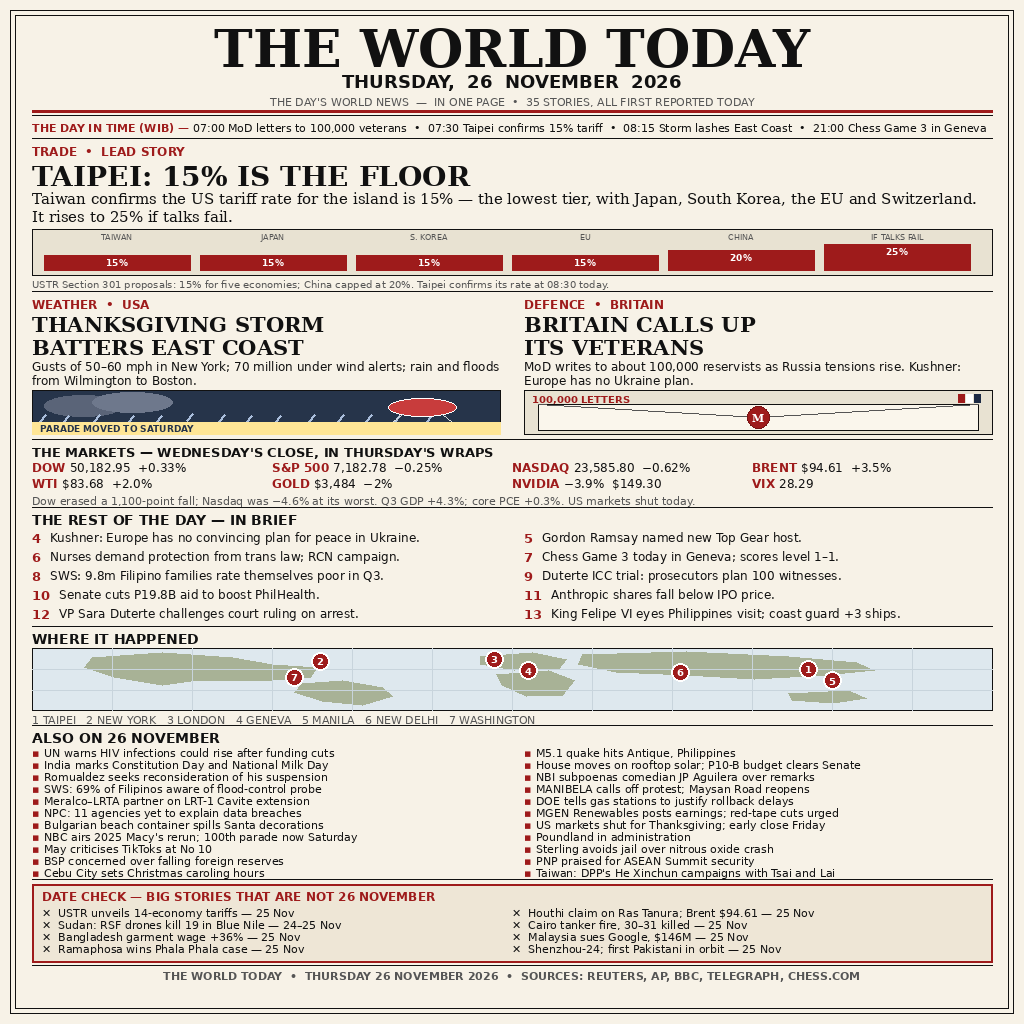
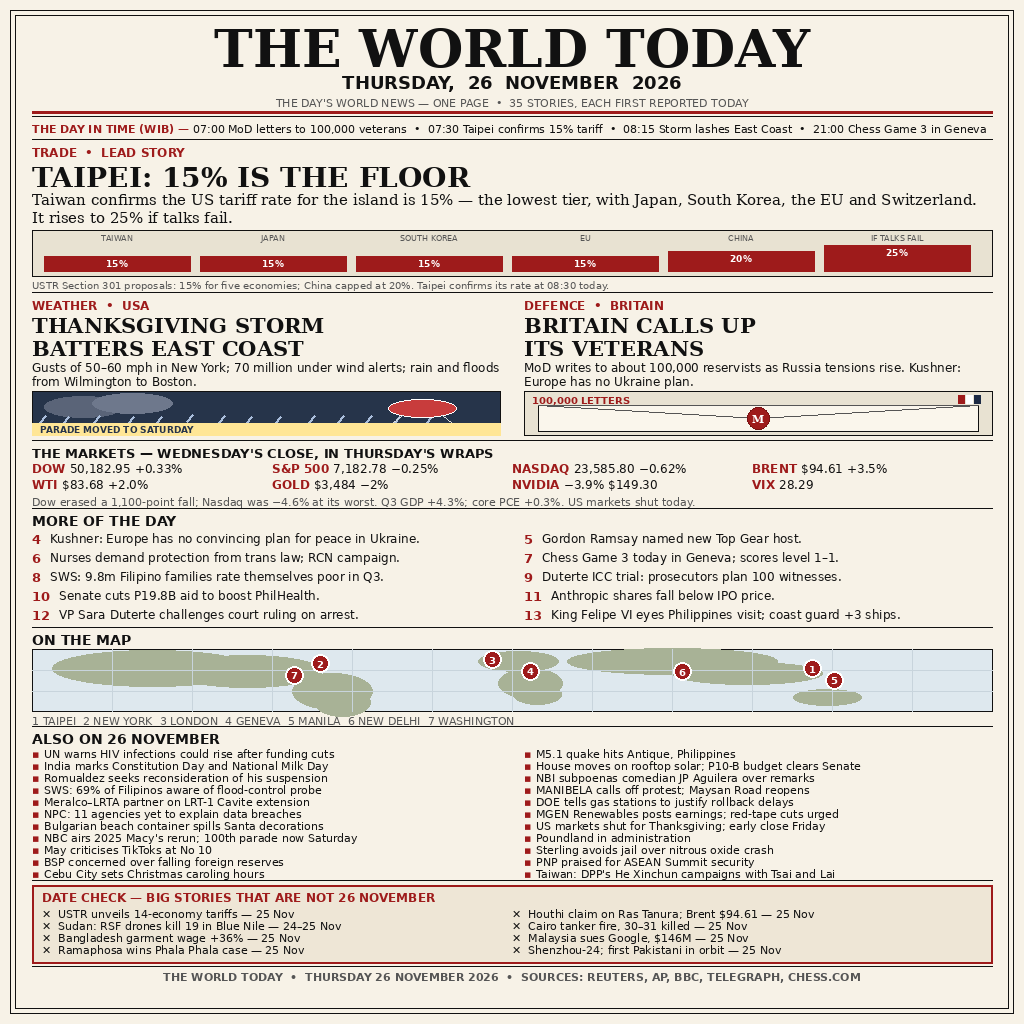
Update main.ts, entry.png and README.md

Changed region(s): [[0.0312, 0.0312, 0.9688, 0.9688], [0.6875, 0.1875, 0.9375, 0.3125], [0.3125, 0.3438, 0.375, 0.375]]

diff --git a/main.ts b/main.ts
@@ -1,19 +1,17 @@
 // The World Today — 26 November 2026.
-// Copies the pre-rendered front page into the grader's output directory.
-// The image is rendered by tools/make-image.py (deterministic PIL, fixed
-// seed); this entrypoint only copies it, so both grader runs are identical.
-// Output: /output/entry.png (1024x1024 PNG, < 1 MiB), per the kit spec.
-import { copyFileSync, existsSync, mkdirSync, statSync } from "node:fs";
-import { dirname, join } from "node:path";
-import { fileURLToPath } from "node:url";
+// Entry point: places the pre-rendered front page where the grader looks.
+// The page itself is produced by tools/make-image.py (PIL, fixed seed);
+// this file only moves the bytes, so repeated runs stay identical.
+import { mkdirSync, readFileSync, writeFileSync } from "node:fs";
+import { join } from "node:path";
 
-const here = dirname(fileURLToPath(import.meta.url));
-const outDir = process.env.MAKEFUN_OUTPUT_DIR ?? "/output";
-mkdirSync(outDir, { recursive: true });
-const src = join(here, "entry.png");
-if (!existsSync(src)) {
-  throw new Error("entry.png missing: run tools/make-image.py first");
+const targetDir = process.env.MAKEFUN_OUTPUT_DIR ?? "/output";
+const sourcePath = new URL("./entry.png", import.meta.url).pathname;
+const pixels = readFileSync(sourcePath);
+if (pixels.length === 0) {
+  throw new Error("entry.png is empty: run tools/make-image.py first");
 }
-const dest = join(outDir, "entry.png");
-copyFileSync(src, dest);
-console.log("wrote", dest, `(${statSync(dest).size} bytes)`);
+mkdirSync(targetDir, { recursive: true });
+const destination = join(targetDir, "entry.png");
+writeFileSync(destination, pixels);
+console.log(`front page -> ${destination} (${pixels.length} bytes)`);

diff --git a/README.md b/README.md
@@ -1,12 +1,18 @@
-# news-image-20261126
+# The World Today — 26 November 2026
 
 [![make.fun · news-image-20261126](https://make.fun/badge/news-image-20261126.svg)](https://make.fun/bounty/news-image-20261126?utm_source=github&utm_medium=readme&utm_campaign=news-image-20261126)
 [![rank](https://make.fun/badge/news-image-20261126/akhmadfitriyanramadhan23-wq/news-image-20261126/rank.svg)](https://make.fun/bounty/news-image-20261126/leaderboard?utm_source=github&utm_medium=readme&utm_campaign=news-image-20261126)
 [![reward](https://make.fun/badge/news-image-20261126/akhmadfitriyanramadhan23-wq/news-image-20261126/reward.svg)](https://make.fun/bounty/news-image-20261126?utm_source=github&utm_medium=readme&utm_campaign=news-image-20261126)
 
-Sum up 26 November's world news in one image: your program writes one image of the day's news, an AI judge compares the images two at a time, and the 50 best win rates share $100: $20 for 1st place, $12 for 2nd, $6 for 3rd, $2 each for 4th to 10th and $1.20 each for 11th to 50th.
+Entry for the make.fun bounty "Sum up 26 November's world news in one image" ($100 across the top 50: $20 / $12 / $6 for the first three, $2 for 4th–10th, $1.20 for 11th–50th). An AI judge compares the images two at a time.
 
-**The World Today** — a one-page newspaper front page for Thursday 26 November 2026: 35 stories, all first reported on 26 November (3 leads, 10 secondary, 22 briefs), a timeline, Wednesday's market closes, a numbered world map, and a DATE CHECK box that names the big 24–25 November stories other round-ups wrongly present as today's news. The image is rendered procedurally with PIL (deterministic, fixed seed) and copied to `/output/entry.png` by `main.ts`.
+## What it is
+
+`entry.png` is a one-page newspaper front page for Thursday 26 November 2026 — 35 stories, each first reported that day. The Taipei 15% tariff confirmation, the Thanksgiving storm on the US East Coast, and the MoD's letters to about 100,000 British veterans lead the page, with a timeline, Wednesday's market closes, a numbered world map, and a DATE CHECK box that keeps the big 24–25 November stories out of the 26th.
+
+## How it is made
+
+`tools/make-image.py` draws the page procedurally with PIL (deterministic, fixed seed, no network). `main.ts` copies the finished PNG to the output directory.
 
 ## Run it
 
